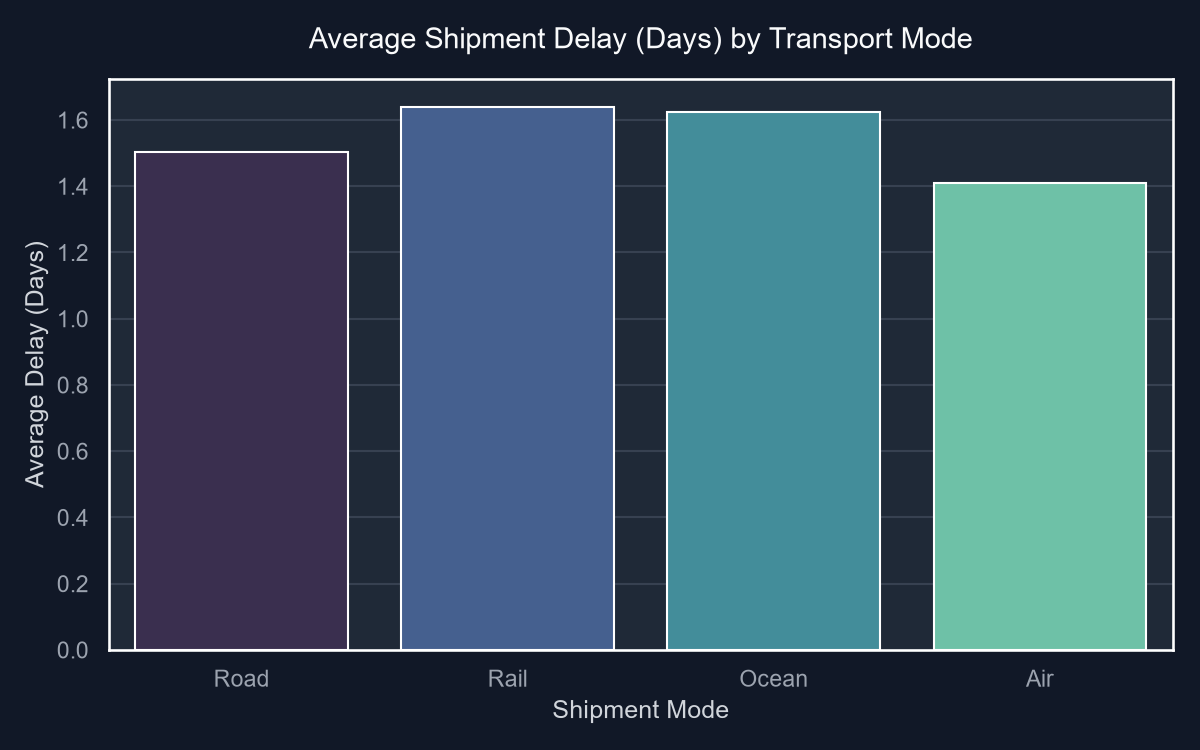
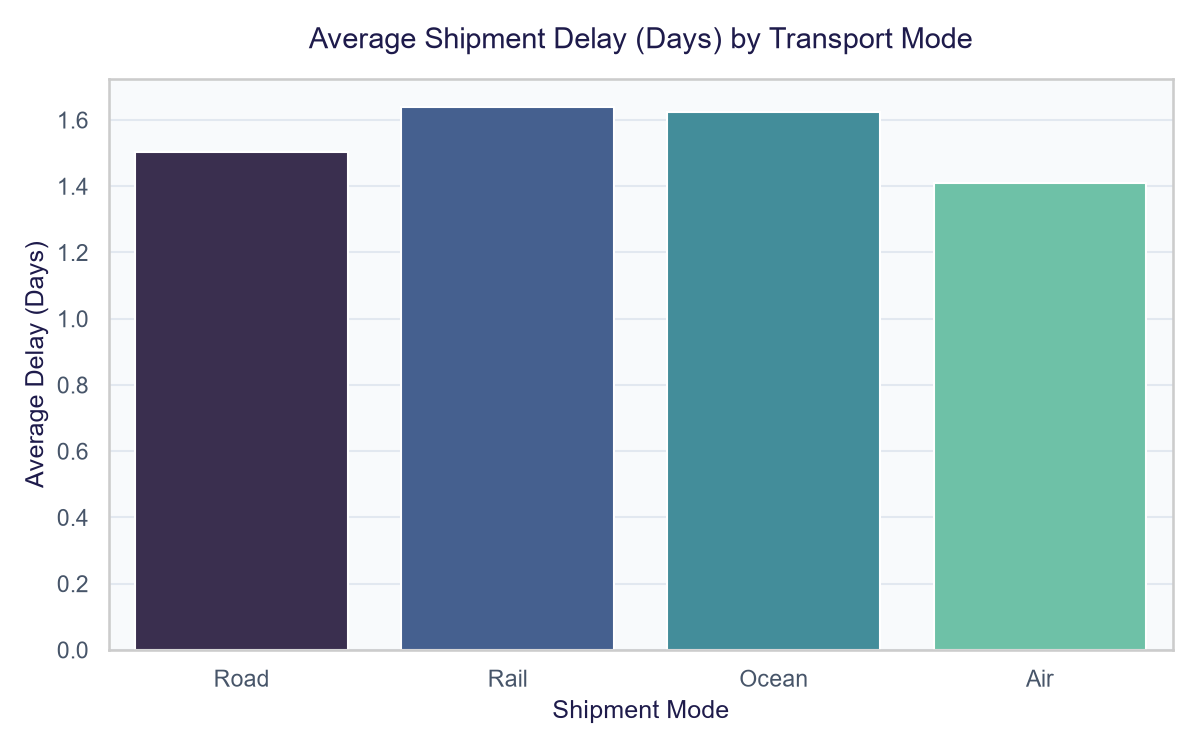
fix(dashboard): update Seaborn charts facecolor to white, fix chart image sizes, and match dashboard periwinkle theme colors

diff --git a/templates/dashboard.html b/templates/dashboard.html
@@ -8,18 +8,42 @@
     <link href="https://cdn.jsdelivr.net/npm/bootstrap@5.3.3/dist/css/bootstrap.min.css" rel="stylesheet">
     <style>
         html, body {
-            background-color: #F4F7F0 !important;
-            color: #1B254B !important;
+            background-color: #eef2ff !important;
+            color: #1e1b4b !important;
         }
         #three-canvas-container {
-            background: linear-gradient(135deg, #FAFDF7 0%, #F4F7F0 50%, #E6EFE0 100%) !important;
+            background: linear-gradient(135deg, #eef2ff 0%, #e0e7ff 50%, #f3e8ff 100%) !important;
         }
         .text-muted, p.text-muted, span.text-muted, div.text-muted {
             color: #475569 !important;
         }
+        .chart-card-wrapper {
+            background: rgba(255, 255, 255, 0.9) !important;
+            border: 1px solid rgba(79, 70, 229, 0.2) !important;
+            border-radius: 16px !important;
+            padding: 1.25rem !important;
+            box-shadow: 0 10px 30px rgba(79, 70, 229, 0.08) !important;
+            height: 100%;
+        }
+        .chart-img-container {
+            width: 100%;
+            height: 320px;
+            display: flex;
+            align-items: center;
+            justify-content: center;
+            overflow: hidden;
+            border-radius: 10px;
+            background: #ffffff;
+            border: 1px solid rgba(79, 70, 229, 0.1);
+        }
+        .chart-img-container img {
+            max-width: 100%;
+            max-height: 100%;
+            object-fit: contain;
+        }
     </style>
     <!-- Custom Style Sheet -->
-    <link rel="stylesheet" href="{{ url_for('static', filename='css/style.css') }}?v=11.0">
+    <link rel="stylesheet" href="{{ url_for('static', filename='css/style.css') }}?v=13.0">
 </head>
 <body>
 
@@ -38,13 +62,12 @@
         </div>
     </nav>
 
-
     <!-- Main Content Area -->
     <main class="container my-5 anim-fade-up">
         
         <div class="d-flex flex-column flex-md-row justify-content-between align-items-md-center mb-4">
             <div>
-                <h1 class="display-6 fw-bold mb-1" style="color: #1B254B !important;">Logistics Analytics Dashboard</h1>
+                <h1 class="display-6 fw-bold mb-1" style="color: #1e1b4b !important;">Logistics Analytics Dashboard</h1>
                 <p class="mb-0" style="color: #475569 !important;">Visual analysis of historical freight data and machine learning feature weightings.</p>
             </div>
             <div class="mt-3 mt-md-0">
@@ -55,52 +78,52 @@
         </div>
 
         <!-- Retrain Progress Indicator -->
-        <div class="glass-card mb-4 text-center py-3" id="retrain-progress" style="display: none; border-color: #4D8B00;">
+        <div class="glass-card mb-4 text-center py-3" id="retrain-progress" style="display: none; border-color: #4f46e5;">
             <div class="d-flex align-items-center justify-content-center">
                 <div class="neon-spinner" style="width: 30px; height: 30px; border-width: 2px;"></div>
-                <span class="ms-3 fw-bold" style="color: #1B254B !important;">Re-training XGBoost pipelines & regenerating charts...</span>
+                <span class="ms-3 fw-bold" style="color: #1e1b4b !important;">Re-training XGBoost pipelines & regenerating charts...</span>
             </div>
         </div>
 
         <!-- KPI Metrics Grid -->
-        <div class="metrics-grid">
+        <div class="metrics-grid mb-4">
             <div class="metric-card">
-                <div class="metric-label" style="color: #4D8B00 !important;">Avg Delay (MAE)</div>
-                <div class="metric-val mt-1" id="val-mae" style="color: #1B254B !important;">{{ metrics.mae_days }} Days</div>
+                <div class="metric-label" style="color: #4f46e5 !important;">Avg Delay (MAE)</div>
+                <div class="metric-val mt-1" id="val-mae" style="color: #1e1b4b !important;">{{ metrics.mae_days }} Days</div>
             </div>
             <div class="metric-card">
-                <div class="metric-label" style="color: #4D8B00 !important;">Model Accuracy (R²)</div>
-                <div class="metric-val mt-1" id="val-r2" style="color: #1B254B !important;">{{ "%.2f"|format(metrics.test_r2 * 100) }}%</div>
+                <div class="metric-label" style="color: #4f46e5 !important;">Model Accuracy (R²)</div>
+                <div class="metric-val mt-1" id="val-r2" style="color: #1e1b4b !important;">{{ "%.2f"|format(metrics.test_r2 * 100) }}%</div>
             </div>
             <div class="metric-card">
-                <div class="metric-label" style="color: #4D8B00 !important;">Dataset Records</div>
-                <div class="metric-val mt-1" id="val-total" style="color: #1B254B !important;">{{ metrics.total_records }}</div>
+                <div class="metric-label" style="color: #4f46e5 !important;">Dataset Records</div>
+                <div class="metric-val mt-1" id="val-total" style="color: #1e1b4b !important;">{{ metrics.total_records }}</div>
             </div>
             <div class="metric-card">
-                <div class="metric-label" style="color: #4D8B00 !important;">On-Time Shipments</div>
-                <div class="metric-val mt-1" id="val-ontime" style="color: #1B254B !important;">{{ metrics.on_time_rate }}%</div>
+                <div class="metric-label" style="color: #4f46e5 !important;">On-Time Shipments</div>
+                <div class="metric-val mt-1" id="val-ontime" style="color: #1e1b4b !important;">{{ metrics.on_time_rate }}%</div>
             </div>
         </div>
 
         <!-- Raw History Data Table -->
         <div class="glass-card mb-5 p-4 anim-fade-up">
-            <h5 class="fw-bold mb-3" style="color: #1B254B !important;">Recent Shipment Simulations (Raw Data)</h5>
+            <h5 class="fw-bold mb-3" style="color: #1e1b4b !important;">Recent Shipment Simulations (Raw Data)</h5>
             <div class="table-responsive">
-                <table class="table table-hover mb-0" id="history-table" style="background: transparent; color: #1B254B;">
-                    <thead style="border-bottom: 2px solid #4D8B00; color: #4D8B00;">
+                <table class="table table-hover mb-0" id="history-table" style="background: transparent; color: #1e1b4b;">
+                    <thead style="border-bottom: 2px solid #4f46e5; color: #4f46e5;">
                         <tr>
-                            <th style="color: #4D8B00;">Timestamp</th>
-                            <th style="color: #4D8B00;">Origin</th>
-                            <th style="color: #4D8B00;">Destination</th>
-                            <th style="color: #4D8B00;">Mode</th>
-                            <th style="color: #4D8B00;">Dist (km)</th>
-                            <th style="color: #4D8B00;">Value (₹)</th>
-                            <th style="color: #4D8B00;">Delay</th>
-                            <th style="color: #4D8B00;">Penalty (₹)</th>
-                            <th style="color: #4D8B00;">Risk</th>
+                            <th style="color: #4f46e5 !important;">Timestamp</th>
+                            <th style="color: #4f46e5 !important;">Origin</th>
+                            <th style="color: #4f46e5 !important;">Destination</th>
+                            <th style="color: #4f46e5 !important;">Mode</th>
+                            <th style="color: #4f46e5 !important;">Dist (km)</th>
+                            <th style="color: #4f46e5 !important;">Value (₹)</th>
+                            <th style="color: #4f46e5 !important;">Delay</th>
+                            <th style="color: #4f46e5 !important;">Penalty (₹)</th>
+                            <th style="color: #4f46e5 !important;">Risk</th>
                         </tr>
                     </thead>
-                    <tbody id="history-body" style="color: #1B254B;">
+                    <tbody id="history-body" style="color: #1e1b4b !important;">
                         <!-- Populated by JS -->
                     </tbody>
                 </table>
@@ -112,30 +135,38 @@
         <div class="row g-4">
             <!-- Chart 1: Delay by Mode -->
             <div class="col-lg-6">
-                <div class="chart-wrapper">
-                    <h6 class="fw-bold mb-3" style="color: #1B254B !important;">Average Delay (Days) by Transport Mode</h6>
-                    <img src="{{ url_for('static', filename='img/charts/delay_by_mode.png') }}" alt="Delay by Mode" class="chart-img">
+                <div class="chart-card-wrapper">
+                    <h6 class="fw-bold mb-3" style="color: #1e1b4b !important;">Average Delay (Days) by Transport Mode</h6>
+                    <div class="chart-img-container">
+                        <img src="{{ url_for('static', filename='img/charts/delay_by_mode.png') }}?v=13.0" alt="Delay by Mode">
+                    </div>
                 </div>
             </div>
             <!-- Chart 2: Delay Risk Distribution -->
             <div class="col-lg-6">
-                <div class="chart-wrapper">
-                    <h6 class="fw-bold mb-3" style="color: #1B254B !important;">Shipment Delay Risk Tier Distribution</h6>
-                    <img src="{{ url_for('static', filename='img/charts/delay_by_carrier.png') }}" alt="Carrier Performance" class="chart-img">
+                <div class="chart-card-wrapper">
+                    <h6 class="fw-bold mb-3" style="color: #1e1b4b !important;">Shipment Delay Risk Tier Distribution</h6>
+                    <div class="chart-img-container">
+                        <img src="{{ url_for('static', filename='img/charts/delay_by_carrier.png') }}?v=13.0" alt="Carrier Performance">
+                    </div>
                 </div>
             </div>
             <!-- Chart 3: Weather Impact -->
             <div class="col-lg-6">
-                <div class="chart-wrapper">
-                    <h6 class="fw-bold mb-3" style="color: #1B254B !important;">Weather & Traffic Impact on Freight Delay</h6>
-                    <img src="{{ url_for('static', filename='img/charts/weather_traffic_impact.png') }}" alt="Weather Impact" class="chart-img">
+                <div class="chart-card-wrapper">
+                    <h6 class="fw-bold mb-3" style="color: #1e1b4b !important;">Weather & Traffic Impact on Freight Delay</h6>
+                    <div class="chart-img-container">
+                        <img src="{{ url_for('static', filename='img/charts/weather_traffic_impact.png') }}?v=13.0" alt="Weather Impact">
+                    </div>
                 </div>
             </div>
             <!-- Chart 4: XGBoost Feature Importance -->
             <div class="col-lg-6">
-                <div class="chart-wrapper">
-                    <h6 class="fw-bold mb-3" style="color: #1B254B !important;">XGBoost Feature Importance Weighting</h6>
-                    <img src="{{ url_for('static', filename='img/charts/feature_importance.png') }}" alt="Feature Importance" class="chart-img">
+                <div class="chart-card-wrapper">
+                    <h6 class="fw-bold mb-3" style="color: #1e1b4b !important;">XGBoost Feature Importance Weighting</h6>
+                    <div class="chart-img-container">
+                        <img src="{{ url_for('static', filename='img/charts/feature_importance.png') }}?v=13.0" alt="Feature Importance">
+                    </div>
                 </div>
             </div>
         </div>
@@ -145,7 +176,7 @@
     <!-- Footer -->
     <footer class="text-center">
         <div class="container">
-            <p class="mb-0" style="color: #475569 !important;">Freight Logistics Predictor &copy; 2026. Built with Python, XGBoost, Light Sage Theme, GSAP & Three.js.</p>
+            <p class="mb-0" style="color: #475569 !important;">Freight Logistics Predictor &copy; 2026. Built with Python, XGBoost, Periwinkle Theme, GSAP & Three.js.</p>
         </div>
     </footer>
 
@@ -156,7 +187,7 @@
     <script src="https://cdnjs.cloudflare.com/ajax/libs/gsap/3.12.5/gsap.min.js"></script>
 
     <!-- Custom Logic Scripts -->
-    <script src="{{ url_for('static', filename='js/three_bg.js') }}?v=11.0"></script>
-    <script src="{{ url_for('static', filename='js/app.js') }}?v=11.0"></script>
+    <script src="{{ url_for('static', filename='js/three_bg.js') }}?v=13.0"></script>
+    <script src="{{ url_for('static', filename='js/app.js') }}?v=13.0"></script>
 </body>
 </html>

diff --git a/train_model.py b/train_model.py
@@ -25,17 +25,19 @@ from xgboost import XGBRegressor
 import joblib
 
 
-# Set visual style for plots
-sns.set_theme(style="darkgrid")
+# Set visual style for plots matching Light Periwinkle Theme
+sns.set_theme(style="whitegrid")
 plt.rcParams.update({
-    'figure.facecolor': '#111827', # Dark background (Tailwind Gray 900)
-    'axes.facecolor': '#1f2937',   # Gray 800
-    'text.color': '#f9fafb',       # Gray 50
-    'axes.labelcolor': '#d1d5db',  # Gray 300
-    'xtick.color': '#9ca3af',      # Gray 400
-    'ytick.color': '#9ca3af',
-    'grid.color': '#374151',       # Gray 700
+    'font.family': 'sans-serif',
+    'figure.facecolor': '#ffffff', 
+    'axes.facecolor': '#f8fafc',   
+    'text.color': '#1e1b4b',       # Deep Navy
+    'axes.labelcolor': '#1e1b4b',  
+    'xtick.color': '#475569',      
+    'ytick.color': '#475569',
+    'grid.color': '#e2e8f0',       
 })
+
 
 def generate_synthetic_data(filepath, num_records=1200):
     """Generates a realistic freight inventory dataset for training."""
@@ -159,7 +161,7 @@ def generate_analytics_charts(df, output_dir):
     plt.xlabel('Shipment Mode', fontsize=12)
     plt.ylabel('Average Delay (Days)', fontsize=12)
     plt.tight_layout()
-    plt.savefig(os.path.join(output_dir, 'delay_by_mode.png'), dpi=150, facecolor='#111827')
+    plt.savefig(os.path.join(output_dir, 'delay_by_mode.png'), dpi=150, facecolor='#ffffff')
     plt.close()
     
     # 2. Delay Distribution by Carrier
@@ -170,7 +172,7 @@ def generate_analytics_charts(df, output_dir):
     plt.xlabel('Carrier', fontsize=12)
     plt.ylabel('Delay (Days)', fontsize=12)
     plt.tight_layout()
-    plt.savefig(os.path.join(output_dir, 'delay_by_carrier.png'), dpi=150, facecolor='#111827')
+    plt.savefig(os.path.join(output_dir, 'delay_by_carrier.png'), dpi=150, facecolor='#ffffff')
     plt.close()
 
     # 3. Weather Conditions vs. Delay Days
@@ -181,7 +183,7 @@ def generate_analytics_charts(df, output_dir):
     plt.ylabel('Average Delay (Days)', fontsize=12)
     plt.legend(title='Traffic Level', loc='upper right')
     plt.tight_layout()
-    plt.savefig(os.path.join(output_dir, 'weather_traffic_impact.png'), dpi=150, facecolor='#111827')
+    plt.savefig(os.path.join(output_dir, 'weather_traffic_impact.png'), dpi=150, facecolor='#ffffff')
     plt.close()
 
     # 4. Shipment Volume / Value Distribution
@@ -191,7 +193,7 @@ def generate_analytics_charts(df, output_dir):
     plt.xlabel('Distance (km)', fontsize=12)
     plt.ylabel('Delay (Days)', fontsize=12)
     plt.tight_layout()
-    plt.savefig(os.path.join(output_dir, 'distance_vs_delay.png'), dpi=150, facecolor='#111827')
+    plt.savefig(os.path.join(output_dir, 'distance_vs_delay.png'), dpi=150, facecolor='#ffffff')
     plt.close()
     print("All dashboard charts generated successfully.")
 
@@ -284,7 +286,7 @@ def train_model(data_path, model_dir):
         plt.xlabel('Importance Value', fontsize=12)
         plt.ylabel('Feature', fontsize=12)
         plt.tight_layout()
-        plt.savefig(os.path.join(charts_dir, 'feature_importance.png'), dpi=150, facecolor='#111827')
+        plt.savefig(os.path.join(charts_dir, 'feature_importance.png'), dpi=150, facecolor='#ffffff')
         plt.close()
         print("Feature importance chart generated successfully.")
     except Exception as e:
